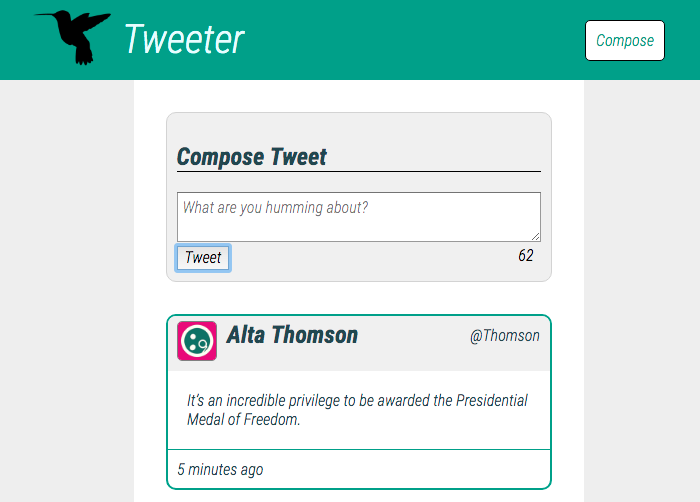
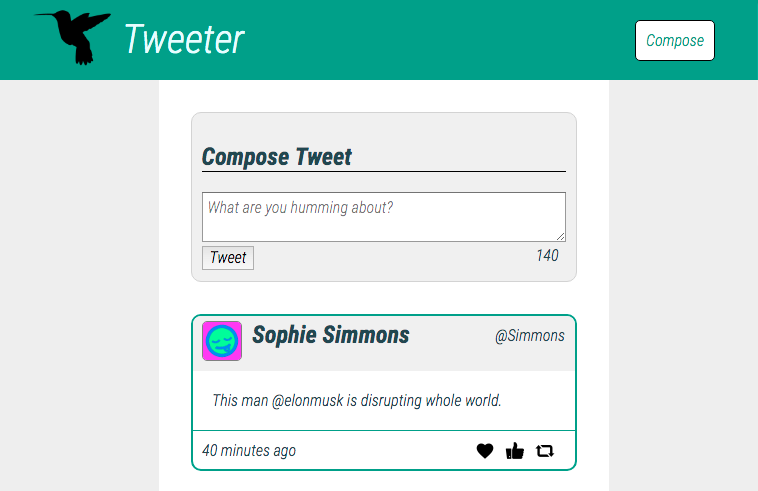
new screenshot

diff --git a/public/scripts/app.js b/public/scripts/app.js
@@ -61,7 +61,8 @@ $( document ).ready(function() {
     const $icon_1 = $('<img>').attr('src',"https://img.icons8.com/ios/20/000000/retweet-filled.png").addClass('image1')
     const $icon_2 = $('<img>').attr('src',"https://img.icons8.com/ios/20/000000/facebook-like-filled.png").addClass('image2')
     const $icon_3 = $('<img>').attr('src',"https://img.icons8.com/material/20/000000/hearts.png").addClass('image3')
-  	// storing info into the header
+  	
+    // storing info into the header and footer
   	$header.append($image).append($username).append($handle)
     $footer.append($icon_1).append($icon_2).append($icon_3)
 

diff --git a/public/styles/tweet-container.css b/public/styles/tweet-container.css
@@ -53,3 +53,29 @@ div.at-sign {
 	padding: 10px;
 	float: right;
 }
+
+.image1, .image2, .image3 {
+    visibility: hidden;
+    float: right;
+    margin-right: 10px;
+}
+/*.image2 {
+    visibility: hidden;
+    float: right;
+    margin-right: 20px;
+}
+.image3 {
+    visibility: hidden;
+    float: right;
+    margin-right: 20px;
+}*/
+
+.block:hover .image1 {
+    visibility: visible;
+}
+.block:hover .image2 {
+    visibility: visible;
+}
+.block:hover .image3 {
+    visibility: visible;
+}
